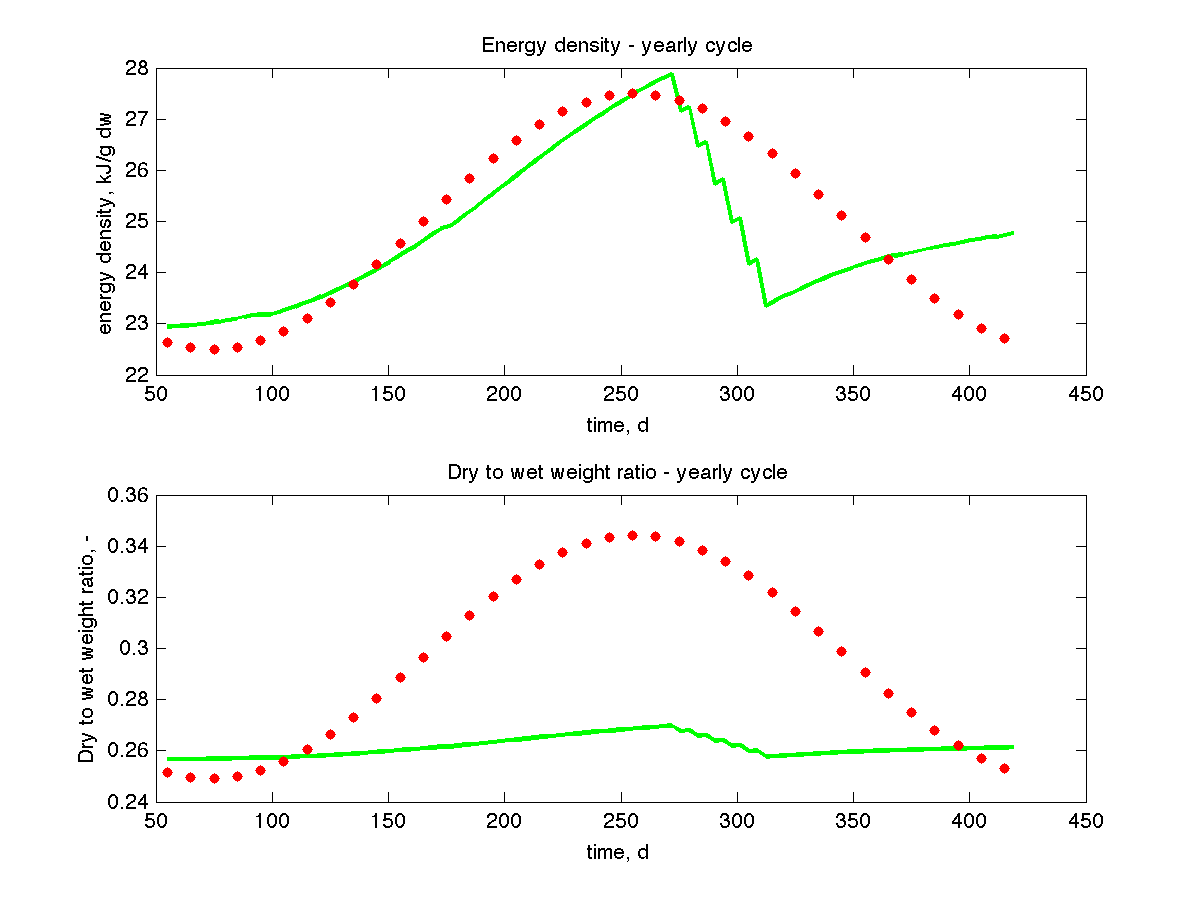
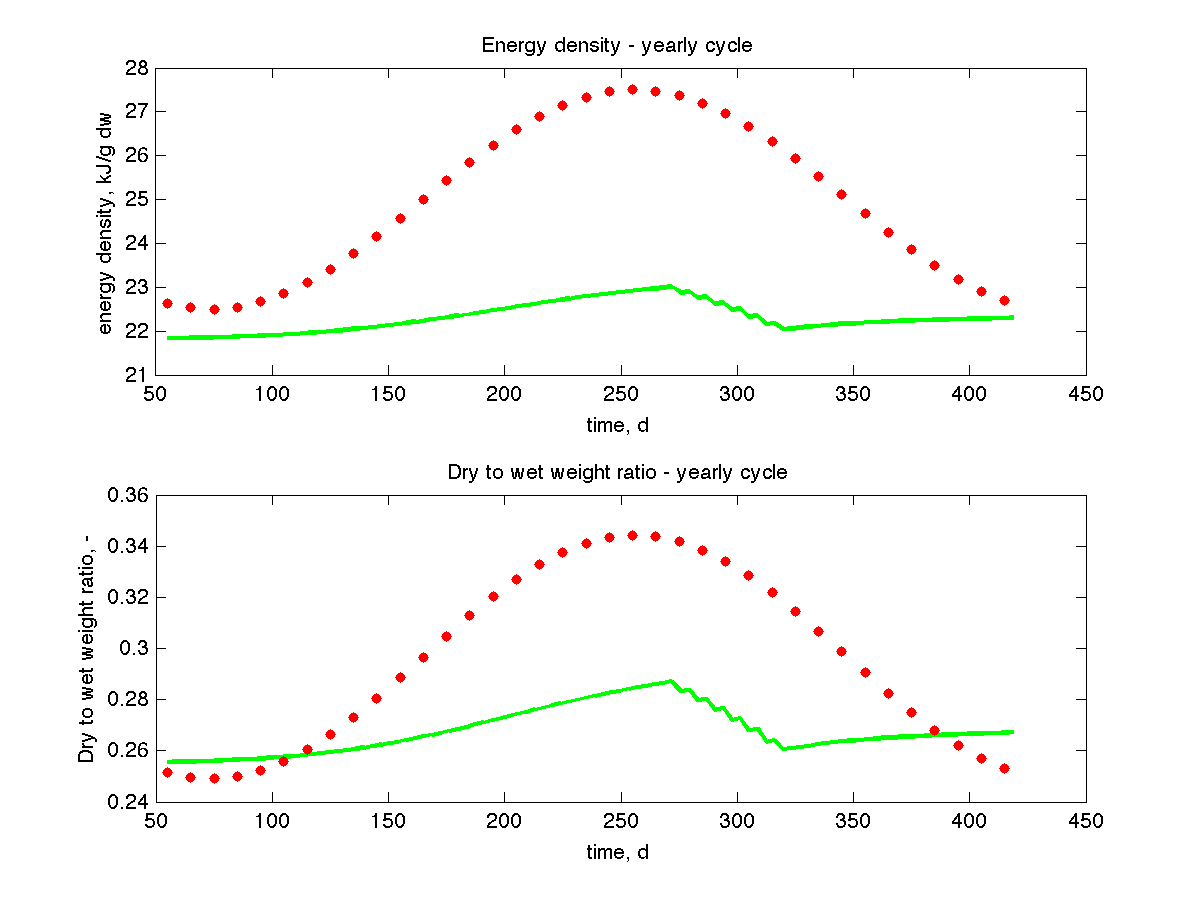
correction of E_0 in mydata

diff --git a/sardina_pilchardus_std/pars_init_Sardina_pilchardus.m b/sardina_pilchardus_std/pars_init_Sardina_pilchardus.m
@@ -39,20 +39,21 @@ par.kap_P = 0.1;    free.kap_P = 0;    units.kap_P = '-';      label.kap_P = 'ka
 par.v = 0.02*5;     free.v     = 1;    units.v = 'cm/d';       label.v = 'v';          % energy conductance
 par.kap = 0.6;      free.kap   = 0;    units.kap = '-';        label.kap = 'kap';      % allocation fraction to soma
 par.kap_R = 0.95;   free.kap_R = 0;    units.kap_R = '-';      label.kap_R = 'kap_R';  % reproduction efficiency
-par.p_M = 18;       free.p_M   = 1;    units.p_M = 'J/d.cm^3'; label.p_M = '[p_M]';    % vol-spec somatic maint
+par.p_M = 3* 18;       free.p_M   = 1;    units.p_M = 'J/d.cm^3'; label.p_M = '[p_M]';    % vol-spec somatic maint
 par.p_T =  0;       free.p_T   = 0;    units.p_T = 'J/d.cm^2'; label.p_T = '{p_T}';    % surf-spec somatic maint
 par.k_J = 0.002;    free.k_J   = 0;    units.k_J = '1/d';      label.k_J = 'k_J';      % maturity maint rate coefficient
-par.E_G = 6100;     free.E_G   = 0;    units.E_G = 'J/cm^3';   label.E_G = '[E_G]';    % spec cost for structure
+par.E_G = 6300;     free.E_G   = 0;    units.E_G = 'J/cm^3';   label.E_G = '[E_G]';    % spec cost for structure
 par.E_Hh = 0.1;     free.E_Hh  = 0;    units.E_Hh = 'J';       label.E_Hh = 'E_Hh';    % maturity at hatching
 par.E_Hb = 0.32   ; free.E_Hb  = 1;    units.E_Hb = 'J';       label.E_Hb = 'E_Hb';    % maturity at birth
 %par.E_Hj =  1.944e1; free.E_Hj  = 1;    units.E_Hj = 'J';       label.E_Hj = 'E_Hj';    % maturity at metamorphosis
-par.E_Hp = 3e4;     free.E_Hp  = 1;    units.E_Hp = 'J';       label.E_Hp = 'E_Hp';    % maturity at puberty
+par.E_Hp = 1.5 * 3e4;     free.E_Hp  = 1;    units.E_Hp = 'J';       label.E_Hp = 'E_Hp';    % maturity at puberty
 par.h_a = 0.5 * 1.184e-8; free.h_a   = 1;    units.h_a = '1/d^2';    label.h_a = 'h_a';      % Weibull aging acceleration
 par.s_G = 1e-4;     free.s_G   = 0;    units.s_G = '-';        label.s_G = 's_G';      % Gompertz stress coefficient
 %% chemical parameters
 par.d_E = 0.44;      free.d_E   = 1;    units.d_E = 'g/cm^3';   label.d_E = 'd_E';      % density of reserve
-par.mu_E = 575e3;   free.mu_E   = 1;   units.mu_E = 'J/mol';   label.mu_E = 'mu_E';      % chemical potential of reserve
-par.w_E = 22;       free.w_E = 1;      units.w_E = 'g/mol';   label.w_E = 'w_E';      % molecular weight of reserve
+par.mu_E = 600e3;   free.mu_E   = 1;   units.mu_E = 'J/mol';   label.mu_E = 'mu_E';      % chemical potential of reserve
+par.w_E = 20;       free.w_E = 1;      units.w_E = 'g/mol';   label.w_E = 'w_E';      % molecular weight of reserve
+par.w_V = 23;       free.w_V = 1;      units.w_V = 'g/mol';   label.w_V = 'w_V';      % molecular weight of structure
 
 %% auxiliary parameters
 par.T_A   = 9000;   free.T_A   = 0;    units.T_A = 'K';        label.T_A = 'T_A';      % Arrhenius temperature
@@ -81,7 +82,7 @@ txt_par.units = units; txt_par.label = label; par.free = free; % pack units, lab
 %
 % data show variations between 0.6 and 0.75 of water content
 % d_E should be removed form chem if we estimate it
-d_V = 0.25;
+d_V = 0.23;
 d_E =  par.d_E;
 mmu_E = par.mu_E/ 1e3;
 % d_E = 0.6;
@@ -92,7 +93,7 @@ d_O = [0.2;  d_V;  d_E;  0.2];    % g/cm^3, specific densities for organics
 
 % chemical potentials from Kooy2010 Tab 4.2
 %        X     V      E      P
-mu_O = [525;  500;  mmu_E;  480] * 1e3; % J/mol, chemical potentials for organics
+mu_O = [525;  510;  mmu_E;  480] * 1e3; % J/mol, chemical potentials for organics
 %       C  H  O  N     CO2, H2O, O2, NH3
 mu_M = [0; 0; 0; 0]; % chemical potential of minerals
 

diff --git a/sardina_pilchardus_std/mydata_Sardina_pilchardus.m b/sardina_pilchardus_std/mydata_Sardina_pilchardus.m
@@ -89,7 +89,7 @@ data.Ri  = 1035;   units.Ri  = '#/d';  label.Ri  = 'maximum reprod rate';      b
   % for f = 0.9. guess Ri = 1150 * 0.9 = 1035;
 data.Wd0 = 3e-5;  units.Wd0 = 'g';    label.Wd0 = 'egg dry weight';    bibkey.Wd0 = 'Nunes2015' ;
 % Wd0 = 18 to 40 microg dry weight - see Cristina Nunes
-data.E0 = data.Wd0 * 29e3;  units.E0 = 'J';    label.E0 = 'egg energy content';    bibkey.E0 = {'Lask1962';'Nunes2015'} ;
+data.E0 = data.Wd0 * 29e3;  units.E0 = 'J';    label.E0 = 'egg energy content';    bibkey.E0 = {'Lask1962','Nunes2015'} ;
 % Energy density of an egg between 20 and 30kJ /g dry weight Kalmer 2005
 %% !! should be consistent with <E> = mu_E/w_E
  
@@ -1167,7 +1167,9 @@ weight.tdw = 100 * weight.tdw;
       eval(['weight.', nm{i},' = 10 * weight.', nm{i}, ';']);
     end
  end
- weight.Ri = 20 * weight.Ri;
+ %weight.Ri = 10 * weight.Ri;
+ 
+ weight.ab = 0; 
  
 % uni-variate data: 
  weight.tL_juv1 = 10 * weight.tL_juv1;
@@ -1196,12 +1198,16 @@ weight.tdw = 100 * weight.tdw;
 %data.psd.kap_G = 0.81; 
 %weight.psd.kap_G = 5 * weight.psd.kap_G;  % to correspond to old mydata_Sardina_pilchardus                 
 
-data.psd.dE = 0.4;      units.psd.dE = 'g/cm^3';    label.psd.dE = 'density of reserve';        bibkey.psd.dE = 'Fill';    
-weight.psd.dE = 10 * 1 ./ data.psd.dE^2;
+data.psd.d_E = 0.4;      units.psd.d_E = 'g/cm^3';    label.psd.d_E = 'density of reserve';       % bibkey.psd.d_E = 'Fill';    
+weight.psd.d_E = 10 * 1 ./ data.psd.d_E^2;
 
-data.psd.wE = 22;      units.psd.wE = 'g/mol';    label.psd.wE = 'molecular weight of reserve';        bibkey.psd.wE = 'Fill';    
-weight.psd.wE = 10 * 1 ./ data.psd.wE^2;
+data.psd.w_E = 20;      units.psd.w_E = 'g/mol';    label.psd.w_E = 'molecular weight of reserve';      %  bibkey.psd.w_E = 'Fill';    
+weight.psd.w_E = 100 * 1 ./ data.psd.w_E^2;
  
+data.psd.w_V = 23;      units.psd.w_V = 'g/mol';    label.psd.w_V = 'molecular weight of reserve';      %  bibkey.psd.w_V = 'Fill';    
+weight.psd.w_V = 100 * 1 ./ data.psd.w_V^2;
+ 
+
 %% pack data and txt_data for output
 data.weight = weight;
 data.temp = temp;

diff --git a/sardina_pilchardus_abj/predict_Sardina_pilchardus.m b/sardina_pilchardus_abj/predict_Sardina_pilchardus.m
@@ -26,7 +26,7 @@ function [Prd_data, info] = predict_Sardina_pilchardus(par, chem, T_ref, data)
   
   %% unpack par, chem, cpar and data
   cpar = parscomp_st(par, chem);
-  v2struct(chem); v2struct(par);  v2struct(cpar);
+  v2struct(chem); v2struct(par);  v2struct(cpar);% order is important for now ; we overwrite w_V ; d_E ; w_E in chem
   v2struct(data);
   
   del_M_SL = del_M / 0.87; % -, shape coefficient for standard length - juveniles and adults % Gaygusuz et al. 2006
@@ -38,7 +38,7 @@ function [Prd_data, info] = predict_Sardina_pilchardus(par, chem, T_ref, data)
     return
   end
 
-  if mu_E <= 0 || d_E <= 0  % non-negativity
+  if mu_E <= 0 || d_E <= 0 || w_E <= 0|| w_V <= 0 % non-negativity
     info = 0;
     Prd_data = {};
     return
@@ -91,7 +91,7 @@ function [Prd_data, info] = predict_Sardina_pilchardus(par, chem, T_ref, data)
   pars_E0 = [V_Hb; g; k_J; k_M; v]; % pars for initial_scaled_reserve
   [U_E0 L_b info] = initial_scaled_reserve(f, pars_E0); % d cm^2, initial scaled reserve
   E_0 = p_Am * U_E0;    % J, initial reserve (of embryo)
-  Wd_0 = E_0 / mu_E;
+  Wd_0 = E_0 * w_E / mu_E;
   
   % birth
   pars_lj = [g; k; l_T; v_Hb; v_Hj; v_Hp];

diff --git a/sardina_pilchardus_std/predict_Sardina_pilchardus.m b/sardina_pilchardus_std/predict_Sardina_pilchardus.m
@@ -38,7 +38,7 @@ function [Prd_data, info] = predict_Sardina_pilchardus(par, chem, T_ref, data)
     return
   end
 
-  if mu_E <= 0 || d_E <= 0  % non-negativity
+  if mu_E <= 0 || d_E <= 0 || w_E <= 0|| w_V <= 0 % non-negativity
     info = 0;
     Prd_data = {};
     return
@@ -78,7 +78,7 @@ function [Prd_data, info] = predict_Sardina_pilchardus(par, chem, T_ref, data)
   pars_E0 = [V_Hb; g; k_J; k_M; v]; % pars for initial_scaled_reserve
   [U_E0 L_b info] = initial_scaled_reserve(f, pars_E0); % d cm^2, initial scaled reserve
   E_0 = p_Am * U_E0;    % J, initial reserve (of embryo)
-  Wd_0 = E_0 / mu_E;
+  Wd_0 = E_0 * w_E / mu_E;
   
   
   % life cycle
